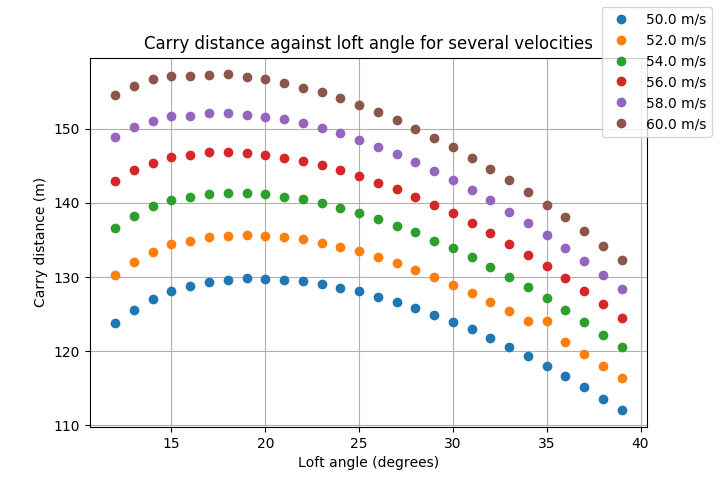
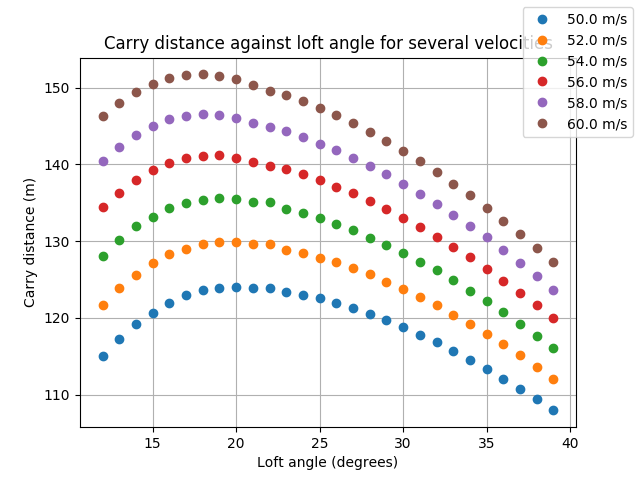
Update images & readme

diff --git a/report/Report.tex b/report/Report.tex
@@ -3,6 +3,7 @@
 \usepackage{graphicx}
 \usepackage{gensymb}
 \usepackage{float}
+\usepackage{siunitx}
 \usepackage[a4paper, total={6in, 8in}]{geometry}
 
 \graphicspath{{./../images/}}
@@ -44,9 +45,10 @@ The following assumptions are made throughout the report and model:
 \begin{description}
   \item[$\cdot$] golf course is level and has no effect on trajectory;
   \item[$\cdot$] height of the tee is negligible;
-  \item[$\cdot$] gravitational field strength is constant (9.81 $N\cdot kg^{-1}$) and does not flucuate with height;
+  \item[$\cdot$] gravitational field strength is constant (\SI{9.81}{\metre\per\second^{2}}) and does not flucuate with height;
   \item[$\cdot$] driver is roughly a flat plate and strikes the ball precisely at the center, with no draw or fade;
-  \item[$\cdot$] the ball used is a Titleist Pro V1, with a mass of $45.93$ g, diameter of $42.67$ mm.
+  \item[$\cdot$] the mass of the club head is significantly greater than that of the shaft, so we consider the shaft's influence to be neglible;
+  \item[$\cdot$] the golf ball is a Titleist Pro V1, with a mass of \SI{45.93}{\gram}, diameter of \SI{42.67}{\milli\metre}.
 
 \end{description}
 
@@ -91,10 +93,8 @@ y=v_0 t \sin{\theta}-\frac{1}{2} g t^2
 \includegraphics[scale=0.6]{simplerange}
 \end{figure}
 
-Figures (1-2) show the maximum range is when the loft angle at 45\degree, as predicted by the equations of projectile motion.
+Figures (1-2) show the maximum range is when the loft angle at 45.0\degree, as predicted by the equations of projectile motion.
 
-
-\pagebreak
 \subsubsection{Smooth golf ball experiencing drag}
 The drag equation is given by:
 \begin{equation} \label{drageqn}
@@ -113,23 +113,23 @@ where $k=\frac{1}{2} A C_d \rho_{air}$.
 \begin{figure}[H]
 \centering
 \caption{Golf ball trajectory when experiencing drag but no lift, $C_d=0.5$}
-\includegraphics[scale=0.6]{dragapprox}
+\includegraphics[scale=0.6]{dragcd}
 \end{figure}
 
 \begin{figure}[H]
 \centering
 \caption{Range as a function of loft angle, $C_d$ = 0.5}
-\includegraphics[scale=0.6]{dragapproxrange}
+\includegraphics[scale=0.6]{dragcdrange}
 \end{figure}
 
-Figure (4) shows that the maximum range is achieved at 40.2\degree, for an initial velocity of $50$ $m\cdot s^{-1}$. Additionally, the range is significantly decreased when drag was added to the model. The greatest range with drag is about $114$ m versus the previous range of $255$ m at 45.0\degree.
+Figure (4) shows that the maximum range is achieved at 40.2\degree, for an initial velocity of \SI{50}{\metre\per\second}. Additionally, the range is significantly decreased when drag was added to the model. The greatest range with drag is about \SI{114}{\metre} versus the previous range of $255$ m at 45.0\degree.
 However, $C_d$ is not constant and depends on the Reynolds number, which is proportional to the velocity of the golf ball. The Reynolds number is given by:
 \begin{equation} \label{reynolds}
 R=\frac{2vr}{\nu}
 \end{equation}
 where $\nu$ is the kinematic viscosity of air.
 
-Using data from [whereever we found the Reynolds number data], we used Python to find a fourth-order polynomial approximation as shown in Figure (5).
+Using data from [whereever we found the Reynolds number data], we used Python to construct a quartic fit as shown in Figure (5). One of the limitions of this approach is that we did not have any data above Reynolds number $112,000$ (\SI{38.39}{\meter\per\second}) or below $63,300$ (\SI{21.70}{\meter\per\second}), so the approximation would not hold for those conditions, and may in fact be drastically worse due to the chaotic behaviour of the polynomial at those points. To get around this, the coefficient of drag is fixed at 0.8 for Reynolds numbers less than 53,000 and fixed at 0.37 for Reynolds numbers greater than 120,000.
 
 \begin{figure}[H]
 \centering
@@ -151,24 +151,21 @@ Applying the approxmation for the coefficient of drag, the optimum loft angle de
 \end{figure}
 
 
-
-
 \subsubsection{Smooth golf ball experiencing lift}
-Lift on a golf ball is caused by the Magnus effect, which is dependent on the backspin of the ball. The equation used is:
+Lift on a golf ball is caused by the Magnus effect, which is dependent on the backspin of the ball. The equation is similar to the drag equation, however the direction of the force is perpendicular to both angular velocity and translational velocity, unlike in the drag equation.
 
 \begin{equation} \label{lifteqn}
-F_{l} = \frac{1}{2} C_{l} \rho_{air} |v|^2 (\hat{\omega} \times \hat{v})
+F_l = \frac{1}{2} \rho_{air} C_{l} |v|^2 (\hat{\omega} \times \hat{v})
 \end{equation}
 
-where $C_L$ is dependent on the spin parameter of the ball:
+where $C_l$ is dependent on the spin parameter of the ball according to [whoever found this equation].
 \begin{equation} \label{clifteqn}
-C_L = -3.25 S^2 + 1.99 S
+C_l = -3.25 S^2 + 1.99 S
 \end{equation}
-The spin parameter is given by
+The spin parameter is given by the ratio of the magnitude of tangential velocity to the magnitude of translational velocity.
 \begin{equation} \label{spineqn}
 S = \frac{r|\omega|}{|v|}
 \end{equation}
-
 
 
 \end{document}

diff --git a/model3d.py b/model3d.py
@@ -58,6 +58,8 @@ def re_to_cd(re):
 	# Clamp output value as it is only an approximation
 	if re > 120000:
 		return 0.370
+	elif re < 53000:
+		return 0.8
 
 	# Array of coefficients
 	coeffs = np.array([
@@ -78,9 +80,7 @@ def reynolds(velocity, radius):
 # Linear velocity to drag coefficient
 def sphere_cd(velocity, radius):
 	cd = re_to_cd(reynolds(velocity, radius))
-
-	# Clamp output value since the approximation isn't accurate for low velocities
-	return cd if velocity >= 18 else 0.8
+	return cd
 
 
 # Drag equation
@@ -92,6 +92,9 @@ def drag(density, area, cd, velocity):
 # Lift equation
 # F_l = 1/2 * air density * ref. area * coefficient * |v|^2 * (what x vhat)
 def lift(density, area, cl, velocity, rvelocity):
+	if cl == 0:
+		return np.array([0, 0, 0])
+
 	S = 0.5 * density * area * cl
 
 	# Cross product of angular velocity and linear velocity, for direction of spin
@@ -185,8 +188,8 @@ class BasicGolfball:
 
 	# Solve for trajectory over given interval
 	def solve(self, t0, t1, dt=0.01):
-		interval = np.linspace(t0, t1, (t1 - t0) / dt)
-		res = integrate(self.__eqns, self.coords(), interval, tfirst=True, printmessg=True)[:, :3]
+		interval = np.linspace(t0, t1, int((t1 - t0) / dt))
+		res = integrate(self.__eqns, self.coords(), interval, tfirst=True)[:, :3]
 
 		out = np.array([e for e in res if e[1] >= 0])
 		return out
@@ -246,24 +249,29 @@ if __name__ == "__main__":
 	plot.grid(True)
 	fig5, thetaax = plot.subplots()
 	plot.grid(True)
+	fig6, thetaax2 = plot.subplots()
+	plot.grid(True)
 
 	speedax.set_title("Ballistic trajectory of golf ball for several velocities; loft: 20 degrees")
 	speedax2.set_title("Carry distance against loft angle for several velocities")
 	densityax.set_title("Ballistic trajectory of golf ball for several air densities; loft: 20 degrees")
 	densityax2.set_title("Carry distance against loft angle for several air densities")
 	thetaax.set_title("Ballistic trajectory of golf ball for a range of loft angles")
+	thetaax2.set_title("Carry distance against loft angle")
 
 	speedax.set_xlabel("Distance (m)")
 	speedax2.set_xlabel("Loft angle (degrees)")
 	densityax.set_xlabel("Distance (m)")
 	densityax2.set_xlabel("Loft angle (degrees)")
 	thetaax.set_xlabel("Distance (m)")
+	thetaax2.set_xlabel("Loft angle (degrees)")
 
 	speedax.set_ylabel("Height (m)")
 	speedax2.set_ylabel("Carry distance (m)")
 	densityax.set_ylabel("Height (m)")
 	densityax2.set_ylabel("Carry distance (m)")
 	thetaax.set_ylabel("Height (m)")
+	thetaax.set_ylabel("Carry distance (m)")
 
 	for speed in speeds:
 		ball = LiftGolfball()
@@ -320,7 +328,7 @@ if __name__ == "__main__":
 	# Reset density to default value
 	density = args.density
 
-	for theta in np.arange(10, 40, 2):
+	for theta in np.arange(20, 45, 5):
 		ball = LiftGolfball()
 		ball.set_velocity(args.velocity, np.radians(theta))
 		ball.set_spin([args.spinx, args.spiny, args.spin])
@@ -330,7 +338,20 @@ if __name__ == "__main__":
 
 		thetaax.plot(x, y, label=format(theta, ".1f") + " degrees")
 
+	xdata = []
+	ydata = []
+	for theta in np.arange(20, 45, 0.5):
+		ball = LiftGolfball()
+		ball.set_velocity(args.velocity, np.radians(theta))
+		ball.set_spin([args.spinx, args.spiny, args.spin])
 
+		res = ball.solve(0, 10)
+		x, y, z = res.T
+
+		xdata.append(theta)
+		ydata.append(x[-1])
+
+	thetaax2.plot(xdata, ydata, 'ro')
 
 	fig1.legend()
 	fig2.legend()

diff --git a/README.md b/README.md
@@ -2,8 +2,14 @@
 
 ### Requirements
 #### Python
-3.7
+3.7 or 3.5 should work
 #### Packages
 `numpy` for all the maths\
 `scipy` for solving ODEs\
 `matplotlib` for plotting
+
+### Files
+`model.py` : deprecated 2D model, does not consider variable drag coefficient, etc.\
+`model3d.py` : 3D model with drag based on Reynolds number; lift, backspin, etc.\
+`images/*` : assorted images, mostly for the report\
+`report/*` : a 2000-word report on the model (PDF and LaTeX documents)
